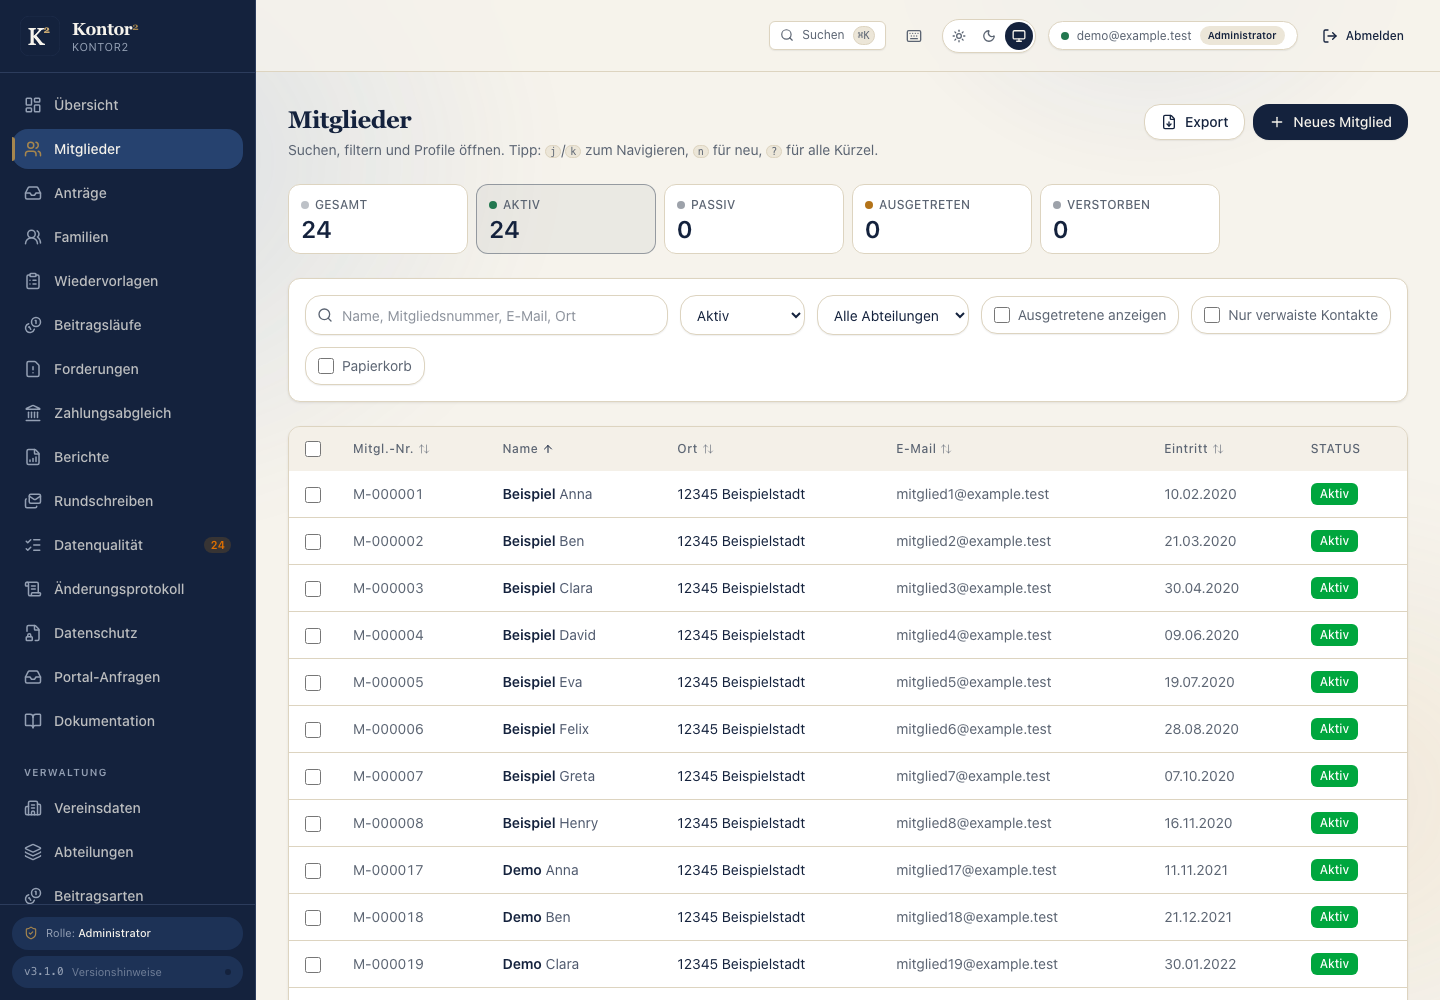
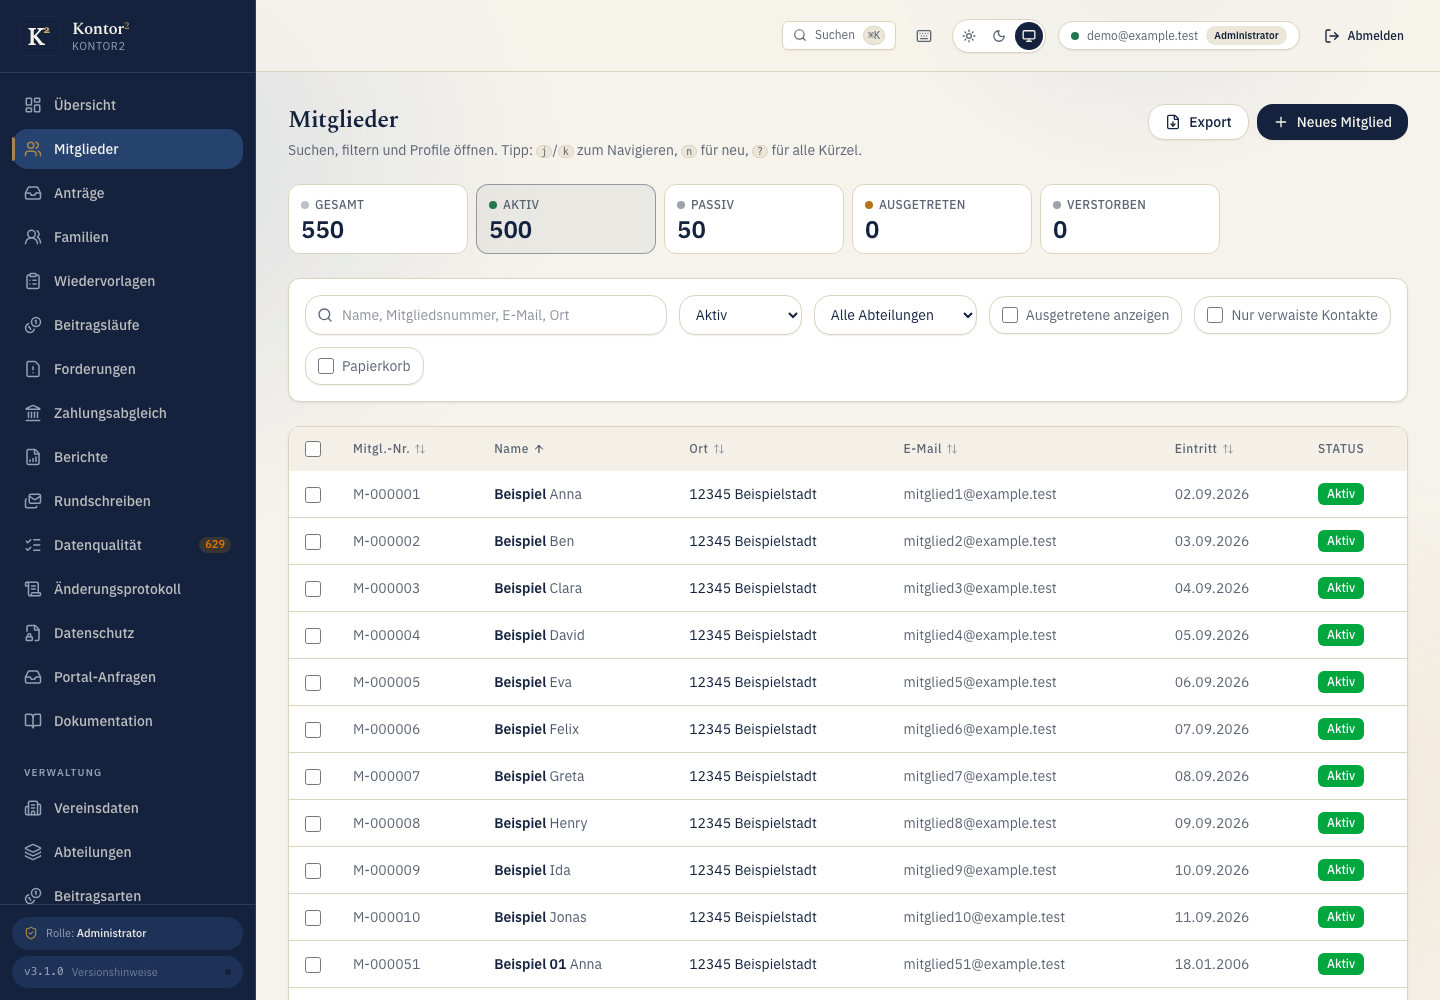
docs: show representative operating volumes in the demo screenshots (#365)

diff --git a/README.md b/README.md
@@ -13,8 +13,9 @@ and use require the owner's written permission. See [LICENSE](LICENSE).
 
 ![Kontor2 member management with fictional club members](docs/screenshots/members.png)
 
-Screenshots show the real application running locally with synthetic demo data.
-They contain no production member records or bank details.
+Screenshots show the real application running locally with 550 fictional club
+members. The demo illustrates a club-sized register and contains no production
+member records or bank details.
 
 <details>
 <summary>Membership overview</summary>
